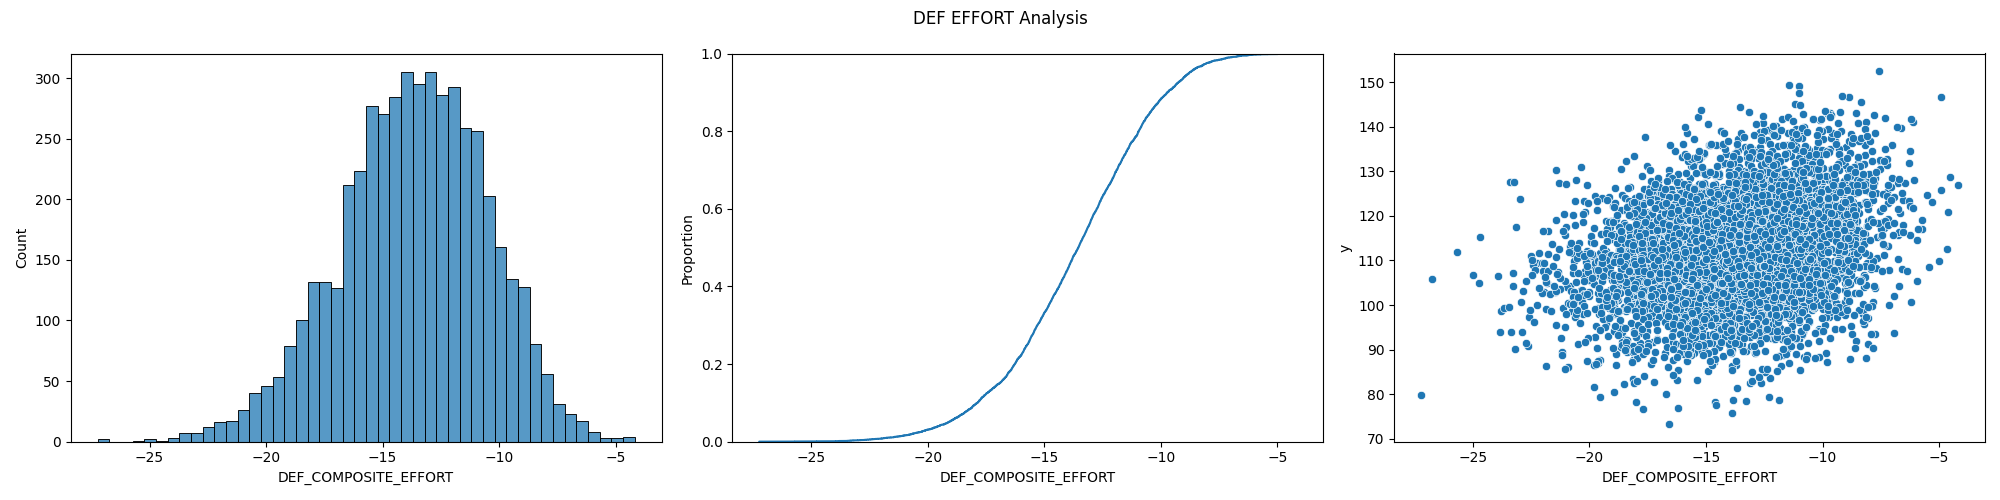
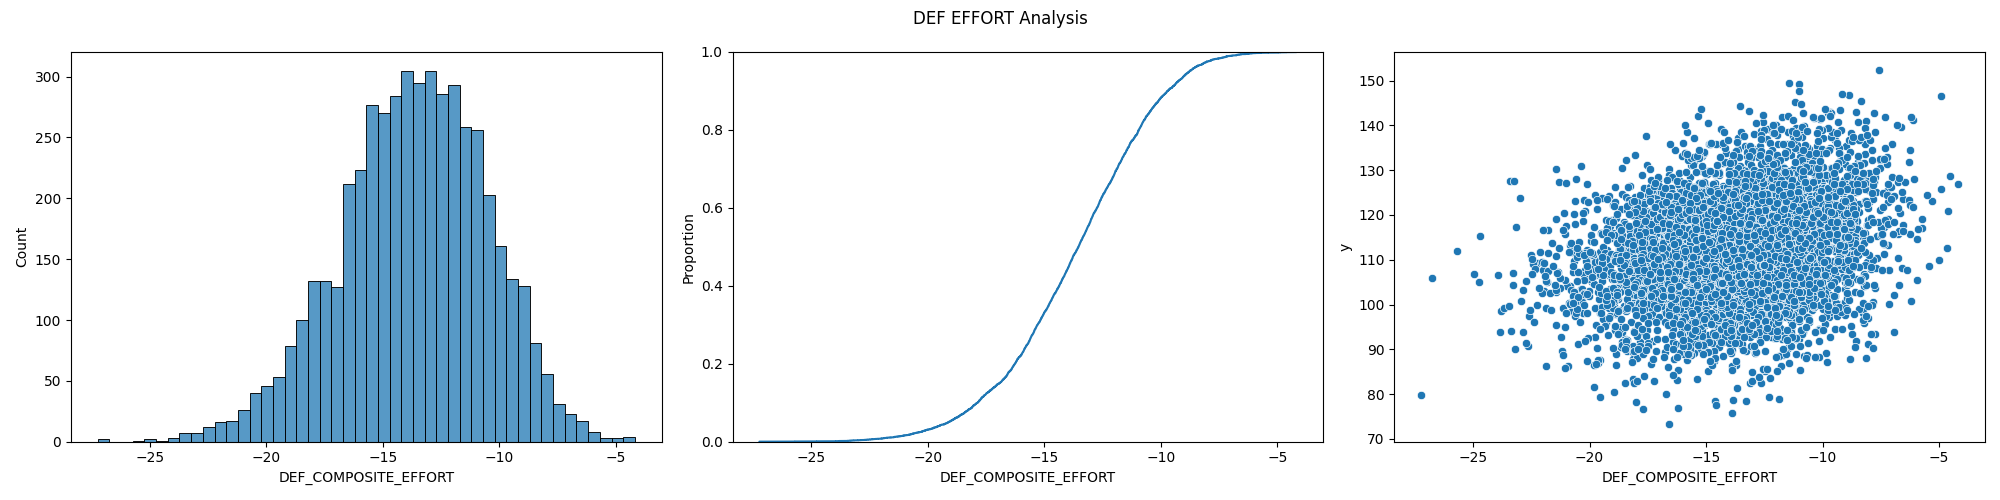
refactor stage 1

diff --git a/src/steps/model/model_stage1.py b/src/steps/model/model_stage1.py
@@ -1,0 +1,152 @@
+import os
+from typing import Literal, List
+import pandas as pd
+import numpy as np
+import matplotlib.pyplot as plt
+import seaborn as sns
+import statsmodels.api as sm
+from typing import Optional, Dict, List, Literal
+from statsmodels.regression.linear_model import RegressionResultsWrapper
+from scipy import stats
+import logging
+
+from src.steps.model.regression_diagnostics import RegressionDiagnostics
+from src.steps.evaluation.utils_evaluation import rmse
+from src.constants import home_away_id_cols
+
+logging.basicConfig(level=logging.INFO, format="%(asctime)s [%(levelname)s] %(message)s")
+logger = logging.getLogger(__name__)
+
+class ModelStage1(RegressionDiagnostics):
+    def __init__(
+            self,
+            X: pd.DataFrame, 
+            y: pd.Series, 
+            effort_type: Literal['off','def','net'],
+            id_cols: List[str],
+            model_name: str,
+            target_name: str
+    ) -> None:
+        self.id_cols = id_cols
+        if self.id_cols:
+            self.id_data = X[self.id_cols].copy() # store ID columns separately
+            self.X = X.drop(self.id_cols, axis=1) # features for modeling
+        else:
+            self.id_data = pd.DataFrame(index=X.index)
+            self.X = X.copy()
+
+        self.y = y
+        self.effort_type = effort_type
+        self.X_model: pd.DataFrame = pd.DataFrame()
+        self.reg_stage1: Optional[RegressionResultsWrapper] = None
+        self.model_name = model_name
+        self.target_name=target_name
+
+    def fit_stage1_model(self) -> RegressionResultsWrapper:
+        """Fit Stage 1 OLS Model"""
+        logger.info(f"Fitting stage 1 model for {self.effort_type.upper()} EFFORT...")
+        X1 = sm.add_constant(self.X)
+        self.reg_stage1 = sm.OLS(endog=self.y, exog=X1).fit()
+        return self.reg_stage1
+    
+    def _print_model_summary(self):
+        """Print Model Summary and RMSE"""
+        if self.reg_stage1 is None:
+            raise ValueError("Stage 1 model must be fitted first")
+        
+        print(self.reg_stage1.summary())
+
+    def create_composite_effort(self):
+        """Create composite effort"""
+        logger.info("Creating composite effort...")
+        if self.reg_stage1 is None:
+            raise ValueError("Stage 1 model must be fitted first")
+        
+        effort_vec = np.array(self.reg_stage1.params[1:]).reshape((-1,1))
+        effort_mat = np.array(self.X)
+
+        self.X[f'{self.effort_type.upper()}_COMPOSITE_EFFORT'] = effort_mat @ effort_vec
+        
+        # Combine ID columns with features + composite effort
+        if not self.id_data.empty:
+            self.X_with_ids = pd.concat([self.id_data.reset_index(drop=True), self.X.reset_index(drop=True)], axis=1)
+        else:
+            self.X_with_ids = self.X.copy()
+
+    def _plot_composite_effort_analysis(self, save_figs=False):
+        
+        plot_data = pd.DataFrame(
+            {
+                f'{self.effort_type.upper()}_COMPOSITE_EFFORT': self.X[f'{self.effort_type.upper()}_COMPOSITE_EFFORT'],
+                'y': self.y
+            }
+        )
+        
+        fig, ax = plt.subplots(1,3, figsize=(20,5))
+        plt.suptitle(f'{self.effort_type.upper()} EFFORT Analysis')
+        sns.histplot(x=f'{self.effort_type.upper()}_COMPOSITE_EFFORT', data=plot_data, ax=ax[0])
+        sns.ecdfplot(x=f'{self.effort_type.upper()}_COMPOSITE_EFFORT', data=plot_data, ax=ax[1])
+        sns.scatterplot(x=f'{self.effort_type.upper()}_COMPOSITE_EFFORT', y='y', data=plot_data, ax=ax[2])
+
+        plt.tight_layout()
+        if save_figs:
+            os.makedirs('figures', exist_ok=True)
+            plt.savefig(f"figures/{self.effort_type}_COMPOSITE_EFFORT_analysis.png")
+        plt.show()
+
+    def _print_composite_effort_stats(self):
+        """Print composite effort statistics and correlation"""
+        
+        percentiles = [.001,.01,.05,.1,.2,.25,.3,.4,.5,.6,.7,.75,.8,.9,.95,.99,.999]
+        print(self.X[f'{self.effort_type.upper()}_COMPOSITE_EFFORT'].describe(percentiles))
+
+        # Correlations
+        pearson_stat, pearson_pval = stats.pearsonr(self.X[f'{self.effort_type.upper()}_COMPOSITE_EFFORT'],self.y)
+        spearman_stat, spearman_pval = stats.spearmanr(self.X[f'{self.effort_type.upper()}_COMPOSITE_EFFORT'],self.y)
+        kendall_stat, kendall_pval = stats.kendalltau(self.X[f'{self.effort_type.upper()}_COMPOSITE_EFFORT'],self.y)
+
+        logger.info(f"Pearson Correlation: {pearson_stat: .3f}, P-value: {pearson_pval: .5f}")
+        logger.info(f"Spearman Correlation: {spearman_stat: .3f}, P-value: {spearman_pval: .5f}")
+        logger.info(f"Kendall's Tau Correlation: {kendall_stat: .3f}, P-value: {kendall_pval: .5f}")
+
+    def run_stage1_model(self, output_dir: str, save_figs=False, print_output=False, create_plots=False):
+        """Run Stage 1 Model"""
+        # Fit model
+        model = self.fit_stage1_model()
+
+        # Print statsmodels output
+        if print_output:
+            self._print_model_summary()
+
+        # Training Predictions
+        y_pred = model.fittedvalues
+        logger.info(f"Train RMSE: {rmse(y_true=self.y, y_pred=y_pred): .3f}")
+
+        # Create OLS diagnostic plots
+        if create_plots:
+            self.create_diagnostic_plots(
+                model_name=self.model_name,
+                target_name=self.target_name,
+                y_true=self.y, 
+                y_pred=y_pred, 
+                save_figs=save_figs
+            )
+
+        # Create Composite Effort
+        self.create_composite_effort()
+        
+        # Print Output
+        if print_output:
+            self._print_composite_effort_stats()
+
+        # Create effort analysis plots
+        if create_plots:
+            self._plot_composite_effort_analysis(save_figs=save_figs)
+
+        # Save
+        os.makedirs(output_dir, exist_ok=True)
+        output_path = os.path.join(output_dir, f'df_{self.effort_type}_stage1_effort.csv')
+
+        self.X_with_ids.to_csv(output_path, index=False)
+
+

diff --git a/src/steps/model/run_stage1.py b/src/steps/model/run_stage1.py
@@ -3,7 +3,8 @@ from typing import List, Literal
 import pandas as pd
 import numpy as np
 
-from src.steps.model.create_effort import CompositeEffort
+from src.steps.model.model_stage1 import ModelStage1
+#from src.steps.model.create_effort import CompositeEffort
 from src.constants import hustle_stats, home_away_id_cols
 
 import logging 
@@ -14,8 +15,9 @@ def prep_off_def_model_data(
         df_train: pd.DataFrame, 
         features: List[str], 
         target_name: str, 
-        effort_type: Literal['off','def','net']
-    ) -> CompositeEffort:
+        effort_type: Literal['off','def','net'],
+        model_name: str
+    ) -> ModelStage1:
     """Prepare data for input into offensive, defensive rating models"""
 
     home_features = [f"HOME_{stat}" for stat in features] 
@@ -40,13 +42,21 @@ def prep_off_def_model_data(
     X = pd.concat([X_home, X_away], ignore_index=True)
     y = pd.concat([y_home, y_away], ignore_index=True)
     
-    return CompositeEffort(X=X, y=y, effort_type=effort_type, id_cols=ids)
+    return ModelStage1(
+        X=X, 
+        y=y, 
+        effort_type=effort_type, 
+        id_cols=ids, 
+        model_name=model_name, 
+        target_name=target_name
+    )
 
 def prep_net_model_data(
         df_train: pd.DataFrame, 
         off_effort: pd.DataFrame, 
-        def_effort: pd.DataFrame
-    ) -> CompositeEffort:
+        def_effort: pd.DataFrame,
+        model_name: str
+    ) -> ModelStage1:
     """Prepare data for input into net rating model"""
     # Define target
     y_off_home = df_train['EST_HOME_ORtg']
@@ -68,7 +78,14 @@ def prep_net_model_data(
     )
     X_cols = ids + ['OFF_COMPOSITE_EFFORT','DEF_COMPOSITE_EFFORT']
 
-    return CompositeEffort(X=X_net[X_cols], y=y_net, effort_type='net', id_cols=ids)
+    return ModelStage1(
+        X=X_net[X_cols], 
+        y=y_net, 
+        effort_type='net', 
+        id_cols=ids,
+        model_name=model_name,
+        target_name='EST_NRtg'
+    )
 
 
 def run_stage1(split_date: str ='2024-10-22'):
@@ -103,10 +120,16 @@ def run_stage1(split_date: str ='2024-10-22'):
         df_train=df_trans_train, 
         features=off_features, 
         target_name='ORtg',
-        effort_type='off'
+        effort_type='off',
+        model_name='Offensive Rating'
     )
-    off_stage1 = comp_eff_off.estimate_stage1_model()
-    off_stage1_effort = comp_eff_off.estimate_composite_effort(output_dir=output_dir)
+    off_stage1 = comp_eff_off.run_stage1_model(
+        output_dir=output_dir,
+        save_figs=False,
+        print_output=True,
+        create_plots=False
+    )
+    
     logger.info("Offensive effort complete.")
 
     # Defensive Rating Model
@@ -115,10 +138,16 @@ def run_stage1(split_date: str ='2024-10-22'):
         df_train=df_trans_train, 
         features=def_features, 
         target_name='DRtg',
-        effort_type='def'
+        effort_type='def',
+        model_name='Defensive Rating'
     )
-    def_stage1 = comp_eff_def.estimate_stage1_model()
-    def_stage1_effort = comp_eff_def.estimate_composite_effort(output_dir=output_dir)
+    def_stage1 = comp_eff_def.run_stage1_model(
+        output_dir=output_dir,
+        save_figs=False,
+        print_output=True,
+        create_plots=False
+    )
+    
     logger.info("Defensive effort complete.")
 
     # Net Rating Model
@@ -126,11 +155,19 @@ def run_stage1(split_date: str ='2024-10-22'):
     comp_eff_net = prep_net_model_data(
         df_train=df_trans_train,
         off_effort=comp_eff_off.X_with_ids,
-        def_effort=comp_eff_def.X_with_ids
+        def_effort=comp_eff_def.X_with_ids,
+        model_name='Net Rating'
     )
-    net_stage1 = comp_eff_net.estimate_stage1_model()
-    net_stage1_effort = comp_eff_net.estimate_composite_effort(output_dir=output_dir)
+    net_stage1 = comp_eff_net.run_stage1_model(
+        output_dir=output_dir,
+        save_figs=False,
+        print_output=True,
+        create_plots=False
+    )
+    
     logger.info("Net effort complete.")
 
 if __name__=='__main__':
-    run_stage1()
+    split_date_list = ['2023-10-22', '2024-01-01','2024-10-22']
+    for date in split_date_list:
+        run_stage1(split_date=date)

diff --git a/src/steps/model/regression_diagnostics.py b/src/steps/model/regression_diagnostics.py
@@ -7,7 +7,7 @@ import seaborn as sns
 import matplotlib.pyplot as plt
 
 class RegressionDiagnostics:
-    def plot_fit_vs_actual(self, y_true, y_pred, ax, target):
+    def plot_fit_vs_actual(self, y_true, y_pred, ax, target_name):
         """Plot fitted vs actual values"""
         plot_data = pd.DataFrame({'y_true': y_true, 'y_pred': y_pred})
 
@@ -24,13 +24,13 @@ class RegressionDiagnostics:
             scatter_kws={'color':'blue', 'alpha':0}, 
             ax=ax
         )
-        ax.set_ylabel(f"Est. {target}")
-        ax.set_xlabel(f"Actual {target}")
+        ax.set_ylabel(f"Est. {target_name}")
+        ax.set_xlabel(f"Actual {target_name}")
         ax.legend(loc='best')
 
     def plot_residuals_vs_fit(self, y_true, y_pred, target, ax):
         """Plot residuals vs predicted values"""
-        residuals = y_true.flatten()-y_pred.flatten()
+        residuals = y_true-y_pred
         sns.scatterplot(
             x=y_pred,
             y=residuals,
@@ -44,7 +44,7 @@ class RegressionDiagnostics:
         ax.set_xlabel(f'Est. {target}')
 
     def plot_qq(self,y_true, y_pred, ax):
-        residuals = y_true.flatten()-y_pred.flatten()
+        residuals = y_true-y_pred
         sm.qqplot(residuals, line='q', ax=ax)
 
     def plot_error_analysis(self, y_pred, y_true, axes):
@@ -56,7 +56,7 @@ class RegressionDiagnostics:
         self._plot_binned_statistics(axes, stats_dict)
 
     def _create_results_dataframe(self, y_pred, y_true):
-        residuals = y_true.flatten()-y_pred.flatten()
+        residuals = y_true-y_pred
         df_res = pd.DataFrame(
             {
                 'yhat': y_pred,
@@ -120,19 +120,19 @@ class RegressionDiagnostics:
         )
         axes[2].legend(loc='best')
 
-    def create_diagnostic_plots(self,model_name: str, target: str, y_true, y_pred, save_figs=False):
+    def create_diagnostic_plots(self,model_name: str, target_name: str, y_true, y_pred, save_figs=False):
         """Produce Diagnostic Plots"""
         fig, ax = plt.subplots(2,3, figsize=(20,10))
         plt.suptitle(f'{model_name} Diagnositic Plots')
 
-        self.plot_fit_vs_actual(y_true=y_true, y_pred=y_pred, ax=ax[0,0], target=target)
-        self.plot_residuals_vs_fit(y_true=y_true, y_pred=y_pred, target=target, ax=ax[0,1])
+        self.plot_fit_vs_actual(y_true=y_true, y_pred=y_pred, ax=ax[0,0], target_name=target_name)
+        self.plot_residuals_vs_fit(y_true=y_true, y_pred=y_pred, target=target_name, ax=ax[0,1])
         self.plot_qq(y_true=y_true, y_pred=y_pred,ax=ax[0,2])
 
         self.plot_error_analysis(y_true=y_true, y_pred=y_pred, axes=ax[1,:])
 
         if save_figs:
             os.makedirs('figures',exist_ok=True)
-            plt.savefig(f"figures/{model_name}_model_diagnositic_plots.png")
+            plt.savefig(f"figures/{model_name.replace(' ','_')}_model_diagnositic_plots.png")
 
         plt.show()
